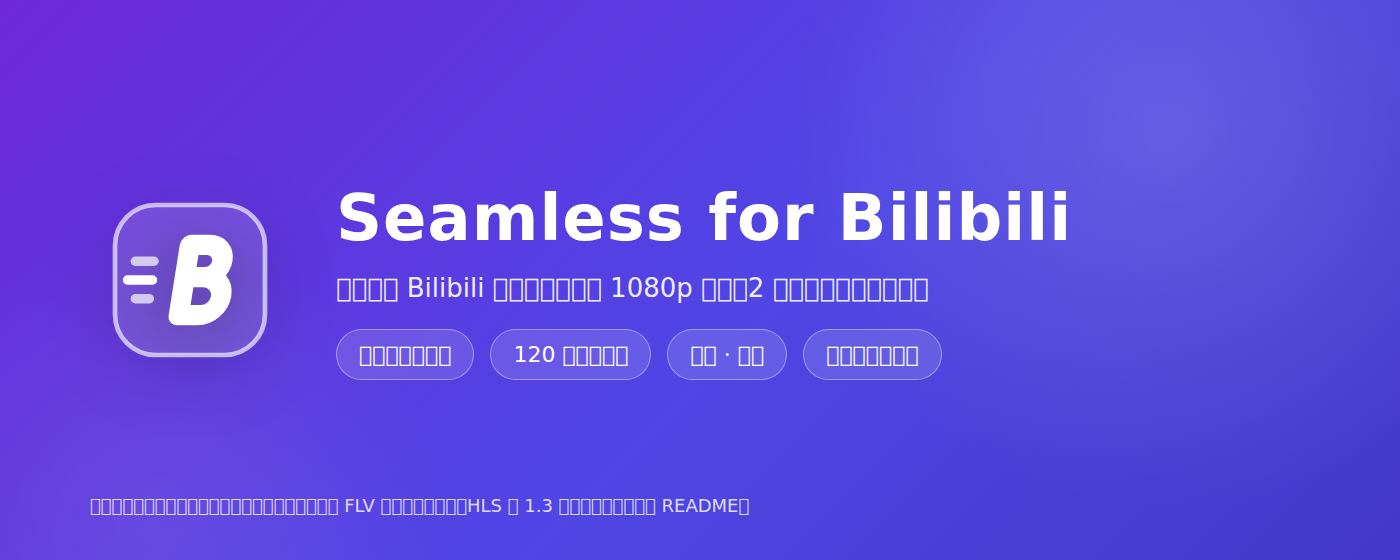
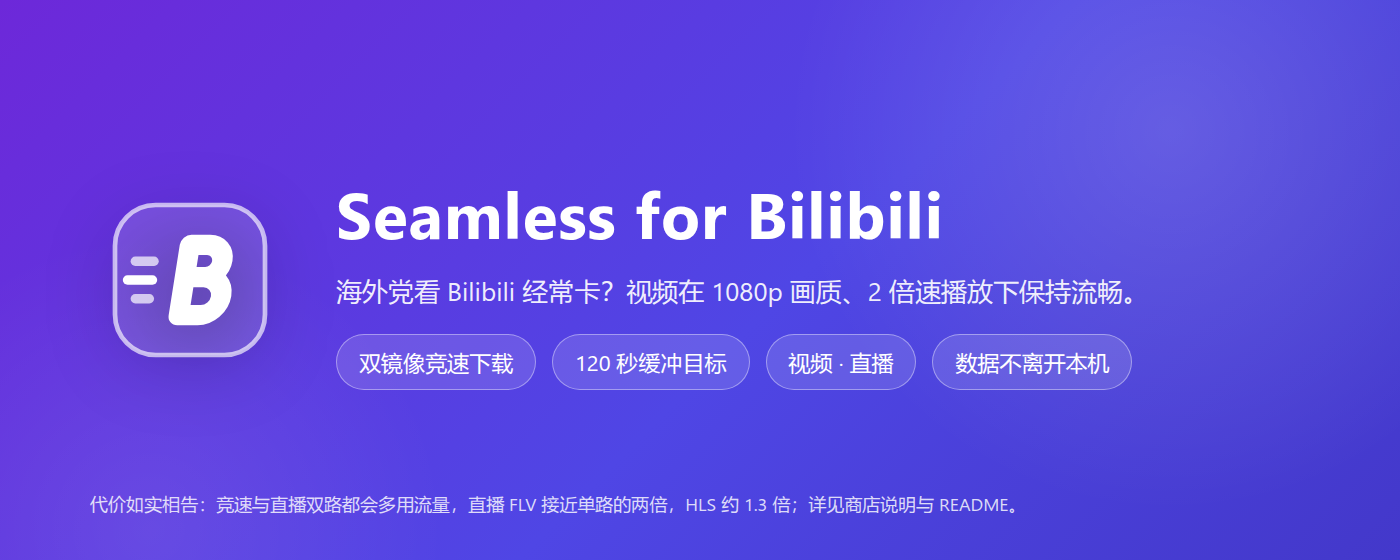
Give the store-image render the Windows fonts and a font self-check
Commit e2a2e49 re-rendered the promo tile and the marquee with the Linux
Chromium in WSL, whose system fonts have neither Segoe UI nor any Chinese
font: every Chinese character in both committed images is an empty box.
compose.mjs now ships fonts.conf (adds /mnt/c/Windows/Fonts, prefers
Segoe UI and Microsoft YaHei) and hands it to Linux Chrome through
FONTCONFIG_FILE at launch, while Windows keeps launching as before; a
new self-check asks Chrome over CDP which platform fonts drew each
element's own text and fails the render on any family outside Segoe UI,
Microsoft YaHei and Noto Sans SC - the last one draws only the diagram's
literal check mark (U+2713), which neither allowed font contains, so it
is the list's one deliberate addition. Tile and marquee re-rendered
through the fixed pipeline; the other five store images stay
byte-identical to the recorded capture.

Why: the user uploads these two PNGs to the Chrome Web Store as they
are, and the layout self-checks only see geometry - they passed the
tofu-box render, so the font had to become a check of its own.

diff --git a/store/images/README.md b/store/images/README.md
@@ -30,6 +30,11 @@
    断言「打开开发日志」区域有墨迹，任一不满足即报错退出；测试浏览器只按 PID 结束（其命令行含本次临时 profile 路径）。
 2. `node store/images/src/compose.mjs` → 弹窗特写按原始捕获的完整尺寸原样导出（不做裁切），并渲染上表全部 PNG。
    每张图渲染前自检：弹窗、说明语和文字块不出画，说明语不压弹窗，标题只在词边界换行，背景页面截图必须加载成功；任一不满足即报错退出。
+   WSL 上的 Linux Chromium 系统字体既无 Segoe UI 也无任何中文字体（缺字体时中文全部成空框），
+   compose.mjs 在 Linux 上启动 Chrome 时经 `src/fonts.conf` 挂上 `/mnt/c/Windows/Fonts` 并优先使用
+   Segoe UI 与 Microsoft YaHei，渲染与 Windows 首捕同字体；环境里已设 `FONTCONFIG_FILE` 时以环境的为准。
+   另有字体自检：经 CDP 询问 Chrome 每段文字实际画在哪个字体上，出现 Segoe UI、Microsoft YaHei
+   （外加示意图勾号 U+2713 回退到的 Noto Sans SC）以外的字体即判该页渲染失败退出。
 3. 文案修改直接改 `src/*.html`（截图说明语在 HTML 里；直播说明语按 `report.json` 的实际接管状态插值到渲染页面，源文件不改）。
 
 ## 已提交图片的捕获来源
